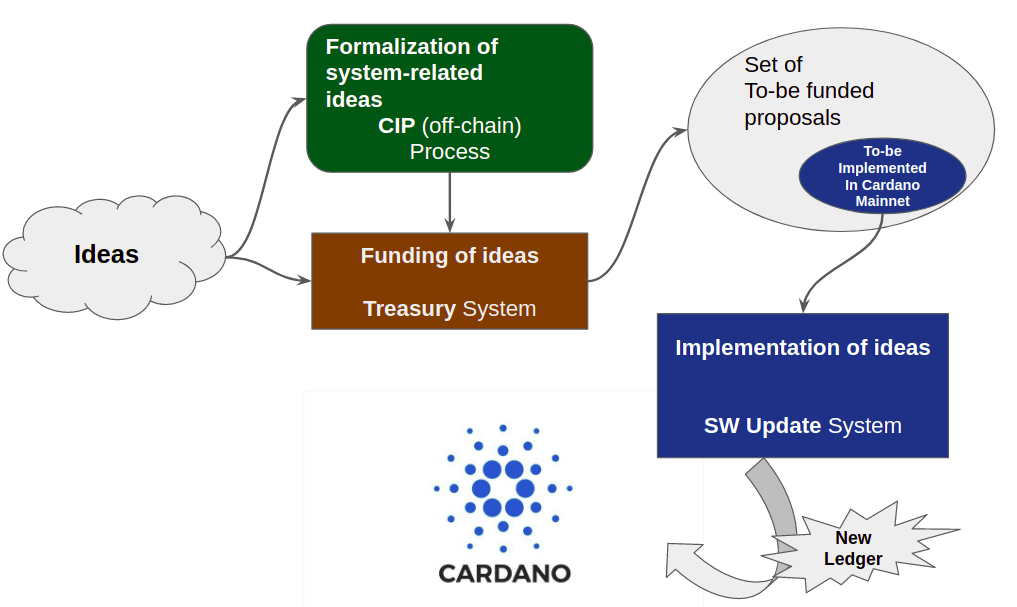
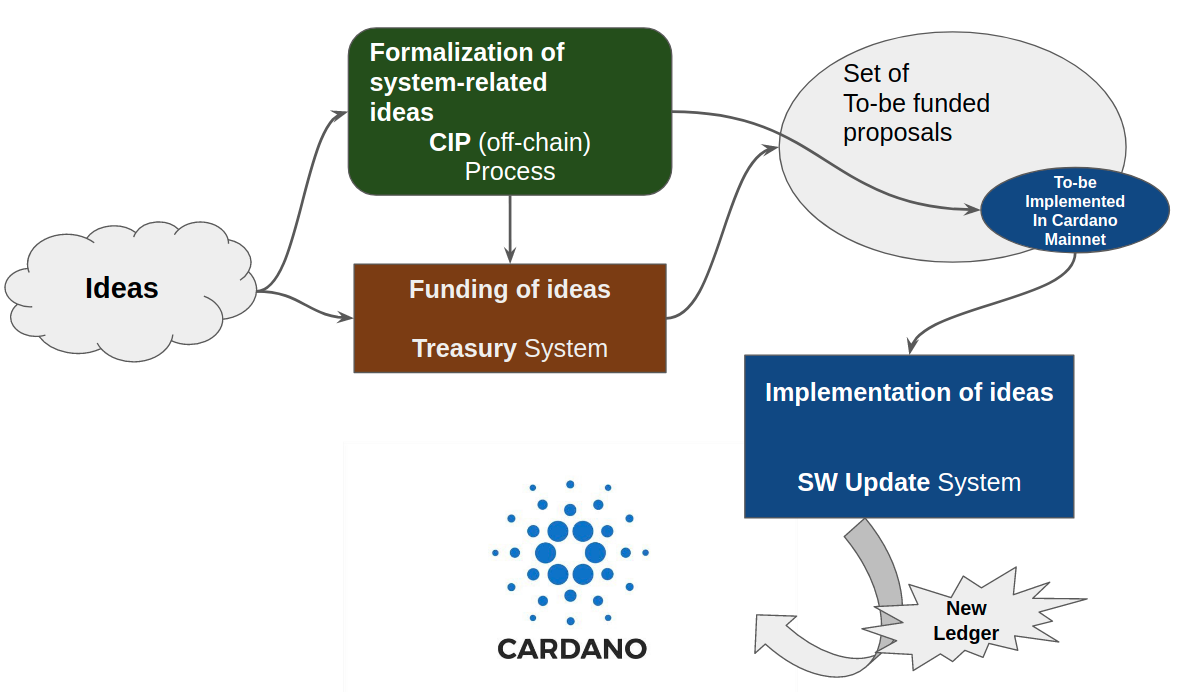
changes in architecture section

diff --git a/design-spec/sections/prototype_architecture.tex b/design-spec/sections/prototype_architecture.tex
@@ -91,7 +91,7 @@ components in the Cardano decentralized governance landscape.
 	Cardano system. It is similar in concept to BIPs (Bitcoin Improvement 
 	Proposals)  and EIPs (Ethereum Improvement Proposals). The Cardano 
 	Improvement process is intent on enabling a public discussion place for 
-	“Cardano Improvement Proposals” as Process, Standard or Informational 
+	``Cardano Improvement Proposals'' as Process, Standard or Informational 
 	proposals, in a source-controlled, Foundation-managed, GitHub 
 	repository.The aim is to have an open-sourced collection of CIPs available 
 	and proposed for the community, enabling different flavors of 
@@ -112,7 +112,7 @@ components in the Cardano decentralized governance landscape.
 	models and advanced cryptography to ensure the secure and decentralized 
 	operation of the Treasury. A good description of the research-related 
 	issues regarding a Treasury system can be found in 
-	\cite{cryptoeprint:2018:435}. The Cardano Treasury system can 
+	\cite{treasury}. The Cardano Treasury system can 
 	fund \emph{any} idea that improves the Cardano ecosystem and not 
 	necessarily only system-related ideas; for example to launch a new 
 	marketing campaign, or create educational material for the Cardano 
@@ -132,12 +132,12 @@ components in the Cardano decentralized governance landscape.
 \end{itemize}
 The basic flow depicted in figure \ref{fig:cardano_dec_gov_components}, shows 
 that system-related ideas going through a formalization process, in the form of 
-a CIP document. Non system-related ideas do not need this step. In any case, 
-all ideas 
-will 
+a CIP document. Non system-related ideas do not need this step. Some ideas 
+might 
 end up in the Treasury system 
-requesting for funding. Finally, the subset of the proposals that have an 
-approved funding and correspond to software updates, will go through the SW 
+requesting for funding and some others might not require funding at all (e.g., 
+parameters value change). Finally, the subset of the proposals that correspond 
+to software updates, will go through the SW 
 Update system to enable the implementation of the initial idea and the 
 activation of the changes on the blockchain system.
 
@@ -204,7 +204,7 @@ components of the decentralized governance landscape are depicted. In
 particular, the software updates system appears integrated with the Cardano 
 main-chain and is depicted as a flow of the core phases in the lifecycle of a 
 software update, namely: Ideation, Implementation, Approval and Activation. In 
-contrast, the Treasury system runs as a sidechain \cite{sidechains}. This is a 
+contrast, the Treasury system runs as a sidechain \cite{sidechain}. This is a 
 conscious architectural decision, which we explain next.
 
 The update system enables changes on the main-chain, so it is very important 
@@ -212,19 +212,28 @@ that it is secure, because if the chain gets compromised or the protocol fails
 people can lose their money. So the chain upon which the update system runs 
 must be \emph{at least} as secure as the main Cardano chain. This requirement 
 calls for a tight integration between the update system and the Cardano node 
-software, as we will show in section \ref{sec:intra-node-level}. For example, 
+software, as we will show in section \ref{integration_with_cardano}. For 
+example, 
 the triggering for the activation of a change that comes from the update system 
 is integrated within the ledger layer of the Cardano node (see section 
-\ref{sec:intra-node-level}). 
+\ref{integration_with_cardano}). 
 
-If we had followed a sidechain approach for the 
-update system, then we would have to utilize more advanced cryptography 
-\cite{possidechains}, in order to provide strong evidence that indeed the 
-changes should be activated on the main-chain. Moreover, the requirement for a 
+The high-stake nature of software updates mandates that on-chain decisions 
+about them should be made on a chain that is at least as secure as the chain on 
+which the changes will be applied . If we had followed a sidechain approach for 
+the 
+update system, then that would mean that the sidechain should be as secure as 
+the main chain on which the changes will take effect. Moreover, we would have 
+to utilize more advanced cryptography 
+\cite{sidechain}, in order to provide strong evidence that indeed the 
+changes should be activated on the main-chain. All these along with the 
+requirement for a 
 robust, simple-to-implement, fast-and-scalable and also transparent and 
 auditable update mechanism has lead us to the decision to implement the update 
-mechanism on the Cardano main-chain. In contrast, the Cardano Treasury system 
-has built advanced voting protocols and utilizes advance cryptography to ensure 
+mechanism on the Cardano main-chain. In contrast, the Cardano Treasury system, 
+which is implemented as a sidechain, deals with lower-stake decisions (the 
+funding of projects) compared to software updates. Also, it has built advanced 
+voting protocols and utilizes advance cryptography to ensure 
 the privacy of the voters (something that is not required for the update system 
 due to the transparency requirement and also because votes for 
 updates must be open, in order for the experts to be accountable for their 
